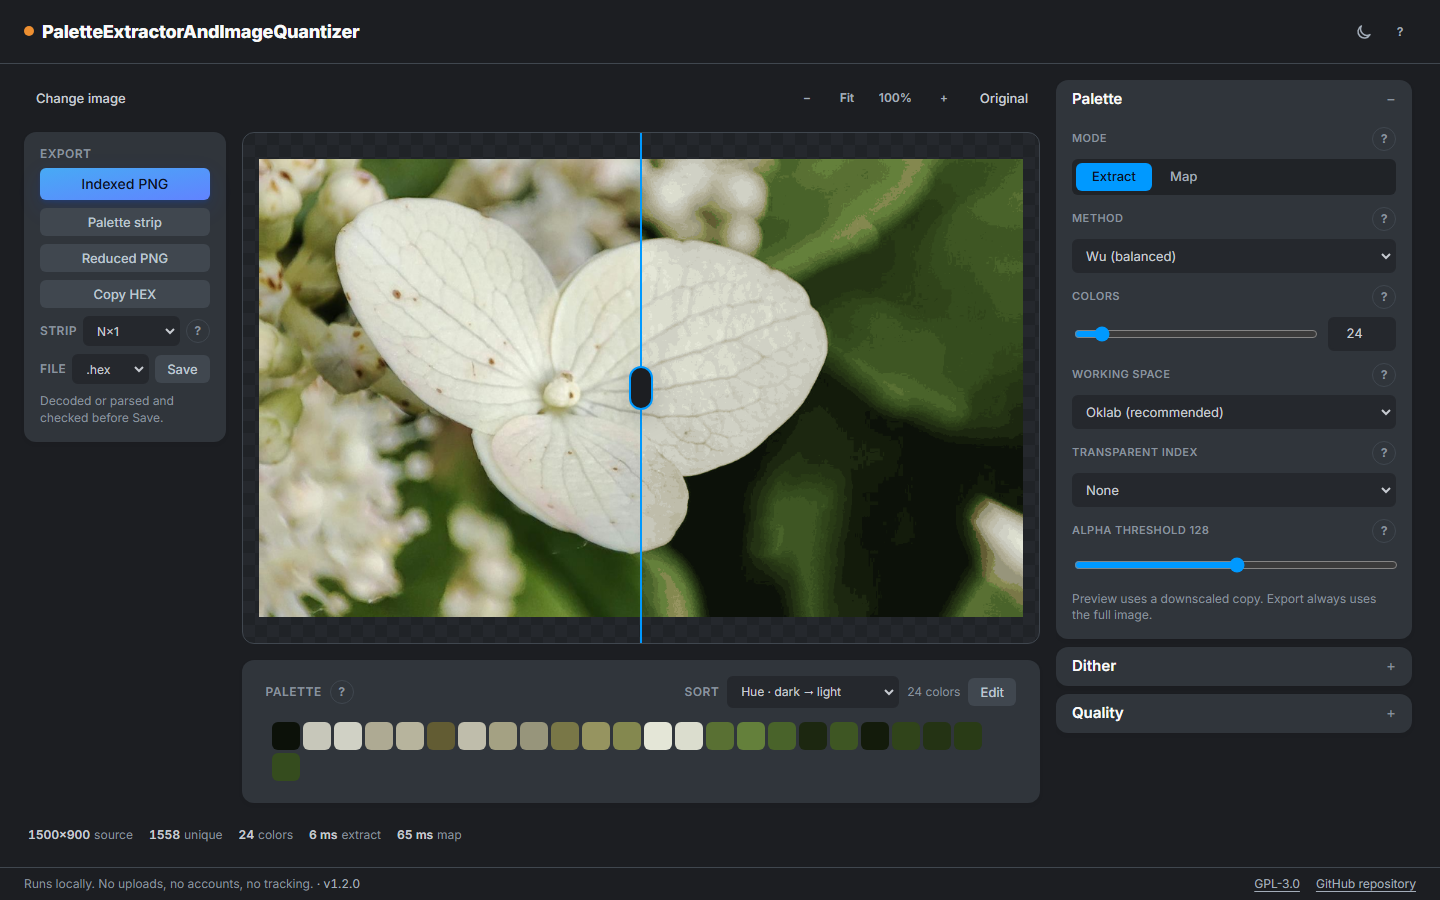
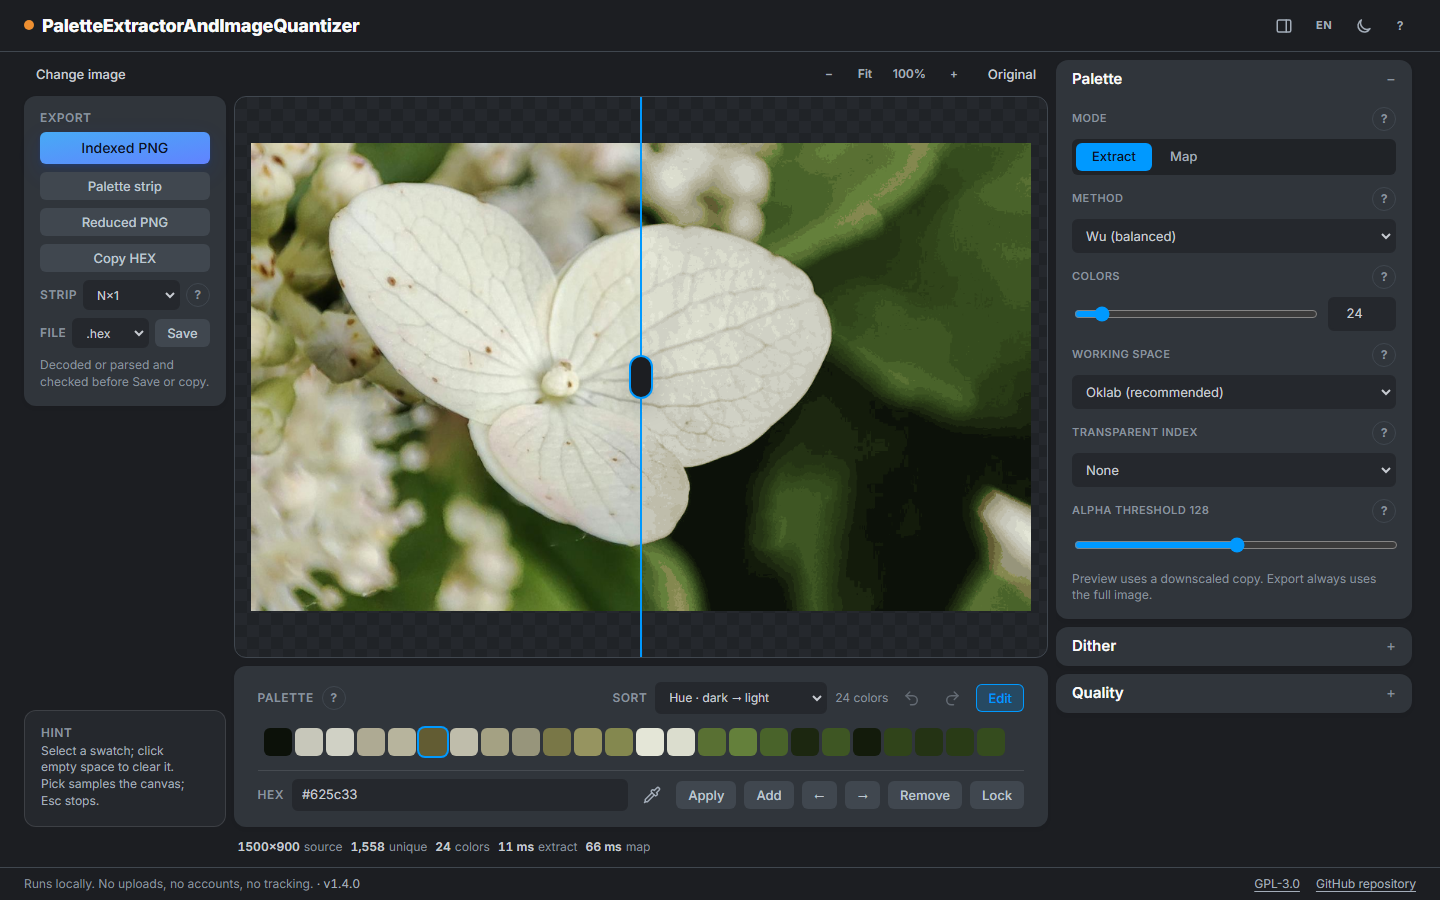
Refresh the README screenshots and correct its setup notes
Both captures came from v1.2.0, before the compact frame, the palette bar history controls, and the collapsible rail. The workspace capture now shows the palette editor open with a selected swatch, HEX field, and actions; the map capture shows the current UI with the Game Boy DMG palette and Floyd-Steinberg dithering.

The text also had stale details: reduced PNGs are validated too, the URL and session cover the transparent index, selection, and markers, privacy named the wrong storage for the session, and the browser baseline and Node version were vague.

Refs: README.md; assets/README.md

diff --git a/README.md b/README.md
@@ -6,10 +6,10 @@ Extract colors, map an image to a fixed palette, dither the result, and export
 engine-ready indexed PNGs, palette strips, and palette files. Everything runs on your
 device: no uploads, no accounts, no dependencies, no build step.
 
-![PEIQ workspace with a hydrangea photo, a 24-color palette, and the export panel](assets/screenshots/workspace-dark.png)
+![PEIQ workspace with a hydrangea photo, a 24-color palette, and the open palette editor](assets/screenshots/workspace-dark.png)
 
-*Extract up to 256 colors from a photo, compare before and after, and export a validated
-indexed PNG.*
+*Extract up to 256 colors from a photo, compare before and after, edit individual swatches,
+and export a validated indexed PNG.*
 
 ## What you can do
 
@@ -51,7 +51,8 @@ Constrain artwork to the palette your engine or hardware expects.
 - **Error diffusion:** Floyd–Steinberg, Atkinson, Stucki, Jarvis, Burkes, Sierra.
 - **Ordered:** Bayer 2×2, 4×4, and 8×8.
 - **Blue noise:** a generated 64×64 void-and-cluster mask.
-- Adjust strength, serpentine scan, and edge stop.
+- Adjust strength, serpentine scan, and edge stop; serpentine and edge stop apply to error
+  diffusion only.
 - Hover or tap the `?` next to any setting for a short explanation.
 
 ![Mapping the hydrangea photo to the Game Boy DMG palette with Floyd–Steinberg dithering](assets/screenshots/map-dither-dark.png)
@@ -77,23 +78,25 @@ looks right.*
 - **Save** and **Copy** on every validated result: PNGs copy as images, palette files as
   text.
 
-Indexed PNGs, strips, and palette files are parsed/decoded again and checked before the
-Save link appears. A mismatch blocks the download.
+Indexed PNGs, strips, reduced PNGs, and palette files are parsed or decoded again and
+checked before the Save link appears. A mismatch blocks the download.
 
 ### Work comfortably
 
 - Dark, light, and automatic themes.
 - Before/after divider, fit, 100% zoom, `+`/`−` buttons, pinch-to-zoom on touch, and
   original toggle.
-- Helpful tooltips and a Help drawer with a reference list.
+- Helpful tooltips and a Help drawer with the shortcuts and a reference list.
 - The settings rail collapses from the header so the canvas can take the full width; the
   choice is remembered between visits.
 - Keyboard shortcuts: `F` fit, `1` 100%, `O` original, `E` error map, `T` theme, `?` Help,
   and `Ctrl/Cmd+Z` / `Ctrl/Cmd+Shift+Z` / `Ctrl/Cmd+Y` for undo and redo.
 - Settings live in the URL hash: a reload restores the mode, extractor, colors, working
-  space, dither, alpha, sort, and built-in palette. The image itself is never included in the URL.
-- The last image, palette edits, settings, locks, and undo/redo history come back after a
-  reload from local IndexedDB. Use **Forget saved session** in Help to remove them.
+  space, dither, alpha threshold, transparent index, sort, and built-in palette. The image
+  itself is never included in the URL.
+- The last image, palette edits, settings, locks, selection, picked-color markers, and
+  undo/redo history come back after a reload from local IndexedDB. Use **Forget saved
+  session** in Help to remove them.
 - Everything stays responsive down to phone width.
 
 ## How it works
@@ -122,18 +125,20 @@ You can also import any palette with up to 256 colors.
 
 Images are decoded and processed entirely in your browser. Nothing is uploaded, and the
 page makes no network requests after loading. No analytics, accounts, cookies, or
-third-party scripts. The theme preference and optional saved session stay in local
-storage; **Forget saved session** in Help removes the session.
+third-party scripts. Theme, language, and settings-rail preferences stay in local storage,
+and the optional saved session stays in local IndexedDB; **Forget saved session** in Help
+removes the session.
 
 ## Browser support
 
-Current Chrome, Edge, Firefox, and Safari. The app needs ES modules, Web Workers, canvas,
-and `createImageBitmap`; no extensions or WebAssembly are required.
+Chrome/Edge 111+, Firefox 113+, and Safari 16.4+. The app needs ES modules, Web Workers,
+Canvas 2D, `createImageBitmap`, `CompressionStream` / `DecompressionStream`, and
+`crypto.subtle`; no extensions or WebAssembly are required.
 
 ## Run it locally
 
 The app is a static page with no install or build step. Serve the folder and open it in a
-browser:
+browser (Node.js 22+ runs the development server):
 
 ```bash
 npm run dev

diff --git a/assets/README.md b/assets/README.md
@@ -17,7 +17,10 @@
 
 `screenshots/workspace-dark.png` and `screenshots/map-dither-dark.png` are captures of
 the running app using a hydrangea photo supplied by the project owner for documentation.
-No third-party artwork, screenshots, or stock images are included.
+The workspace capture shows the palette editor open with a selected swatch; the map capture
+shows the Game Boy DMG palette with Floyd–Steinberg dithering. No third-party artwork,
+screenshots, or stock images are included. Refreshed 2026-11-16 at 1440×900 from the
+current UI.
 
 ## Blue noise
 
